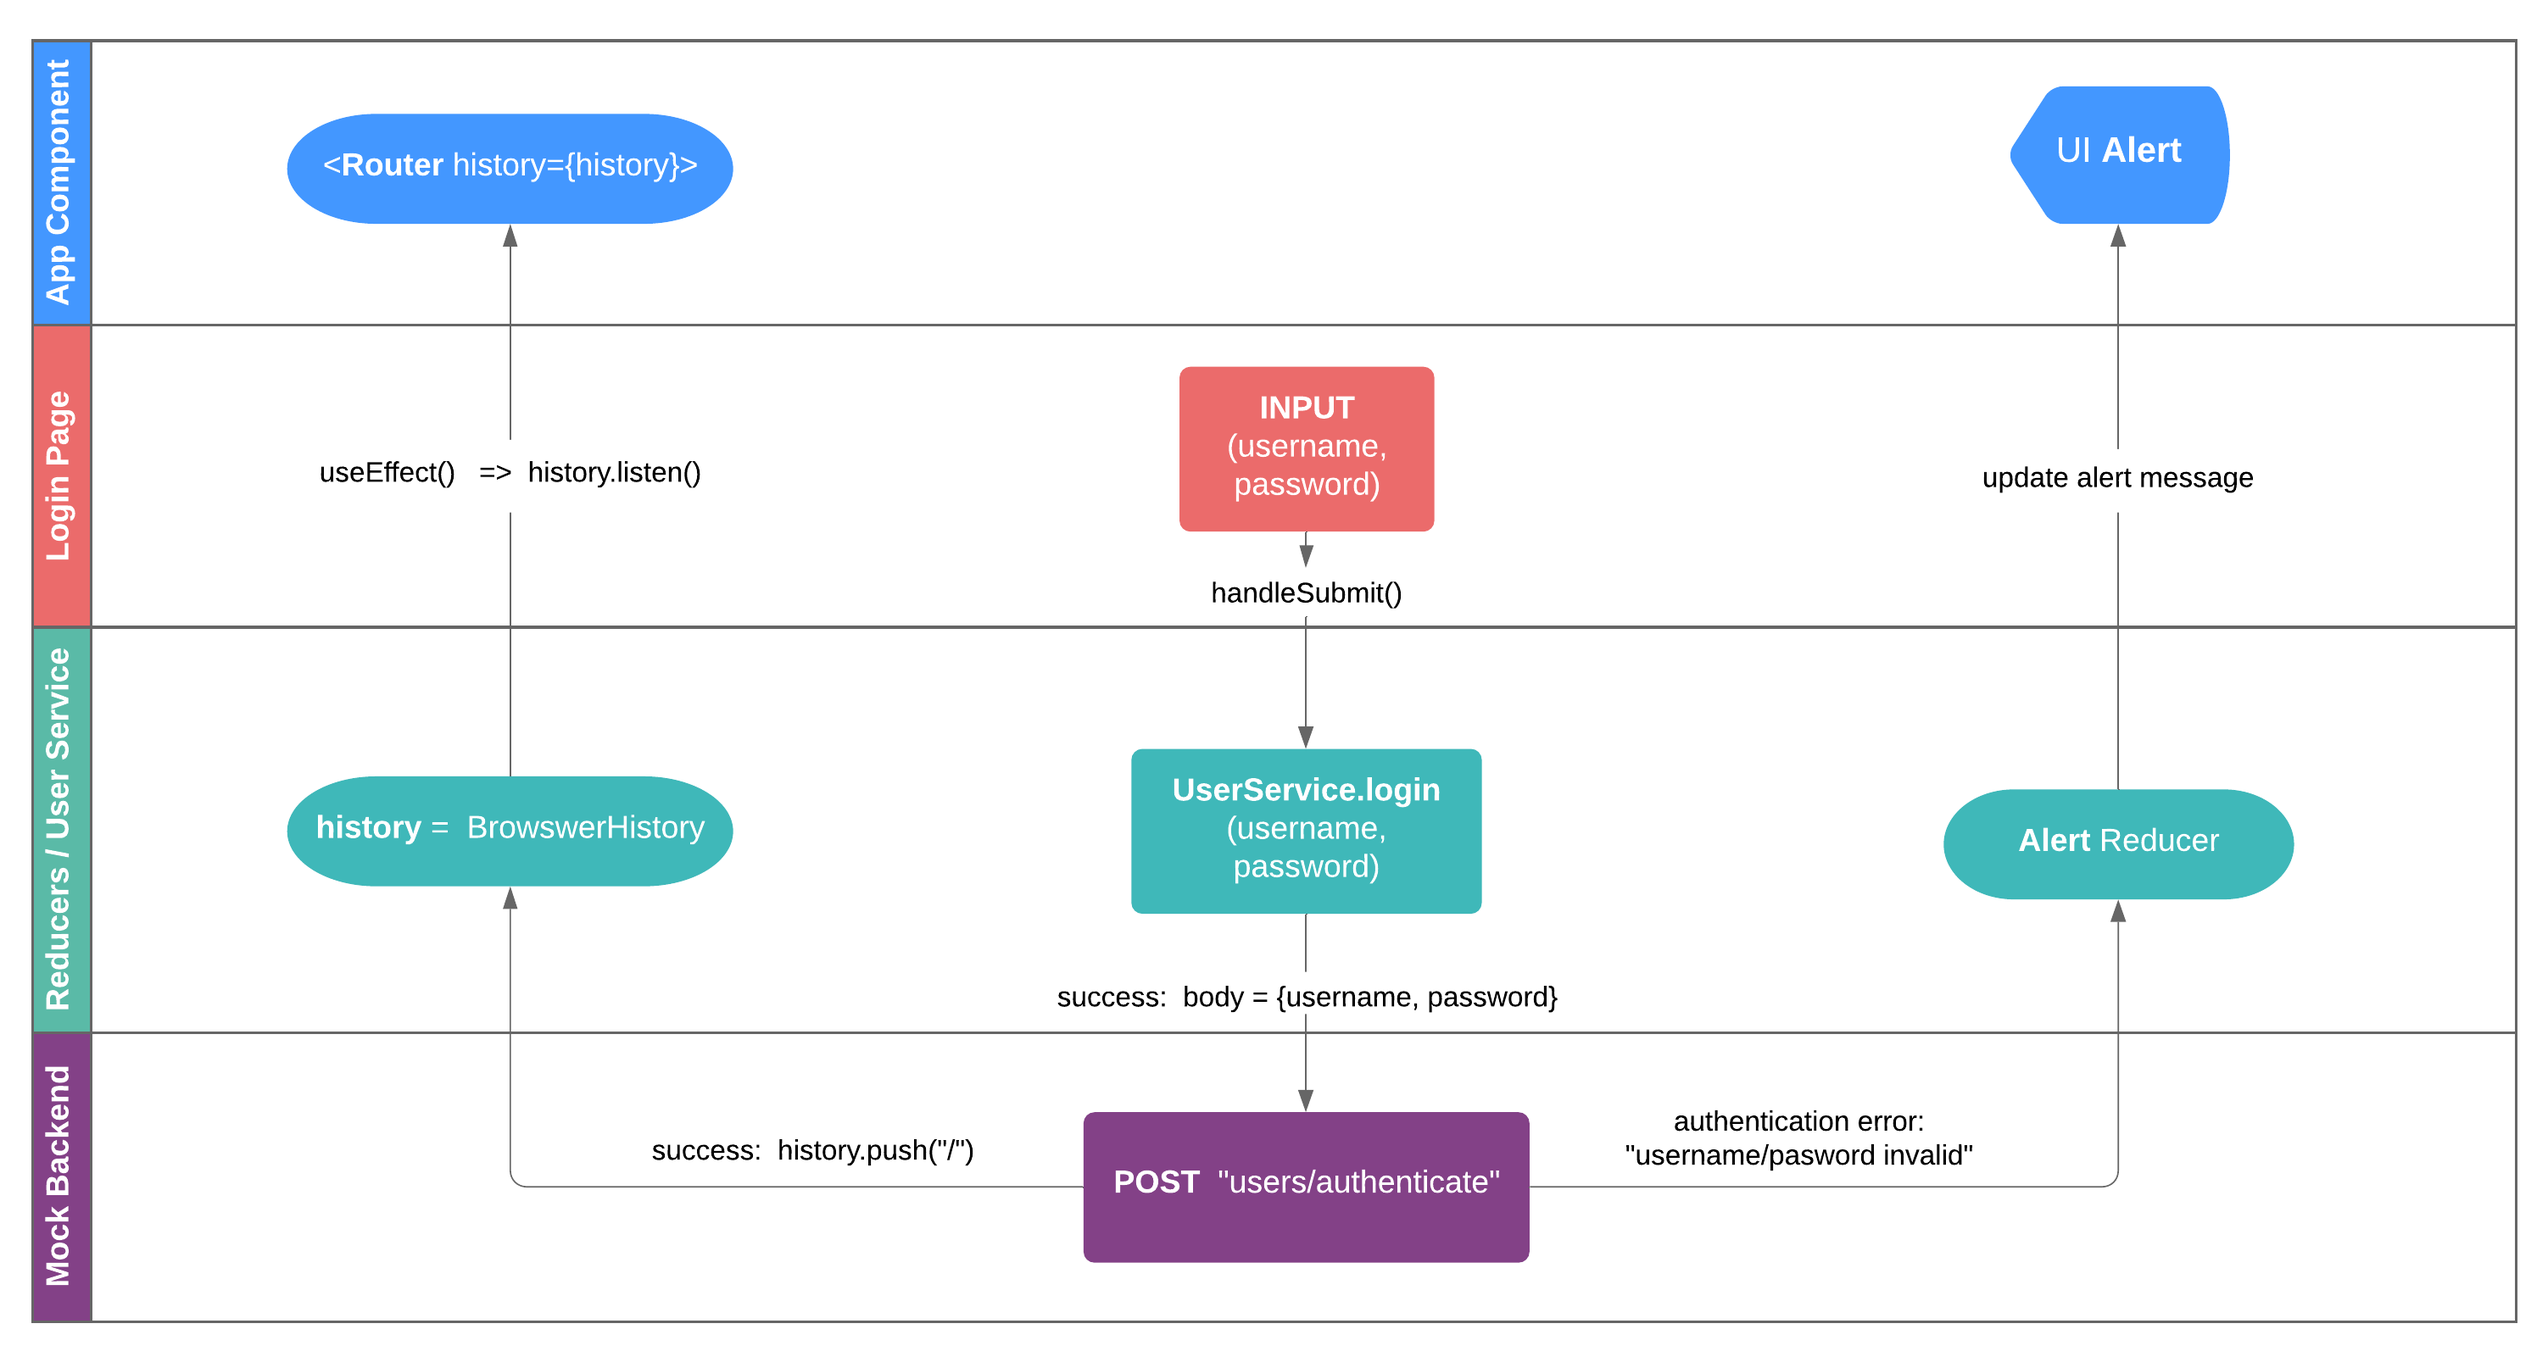
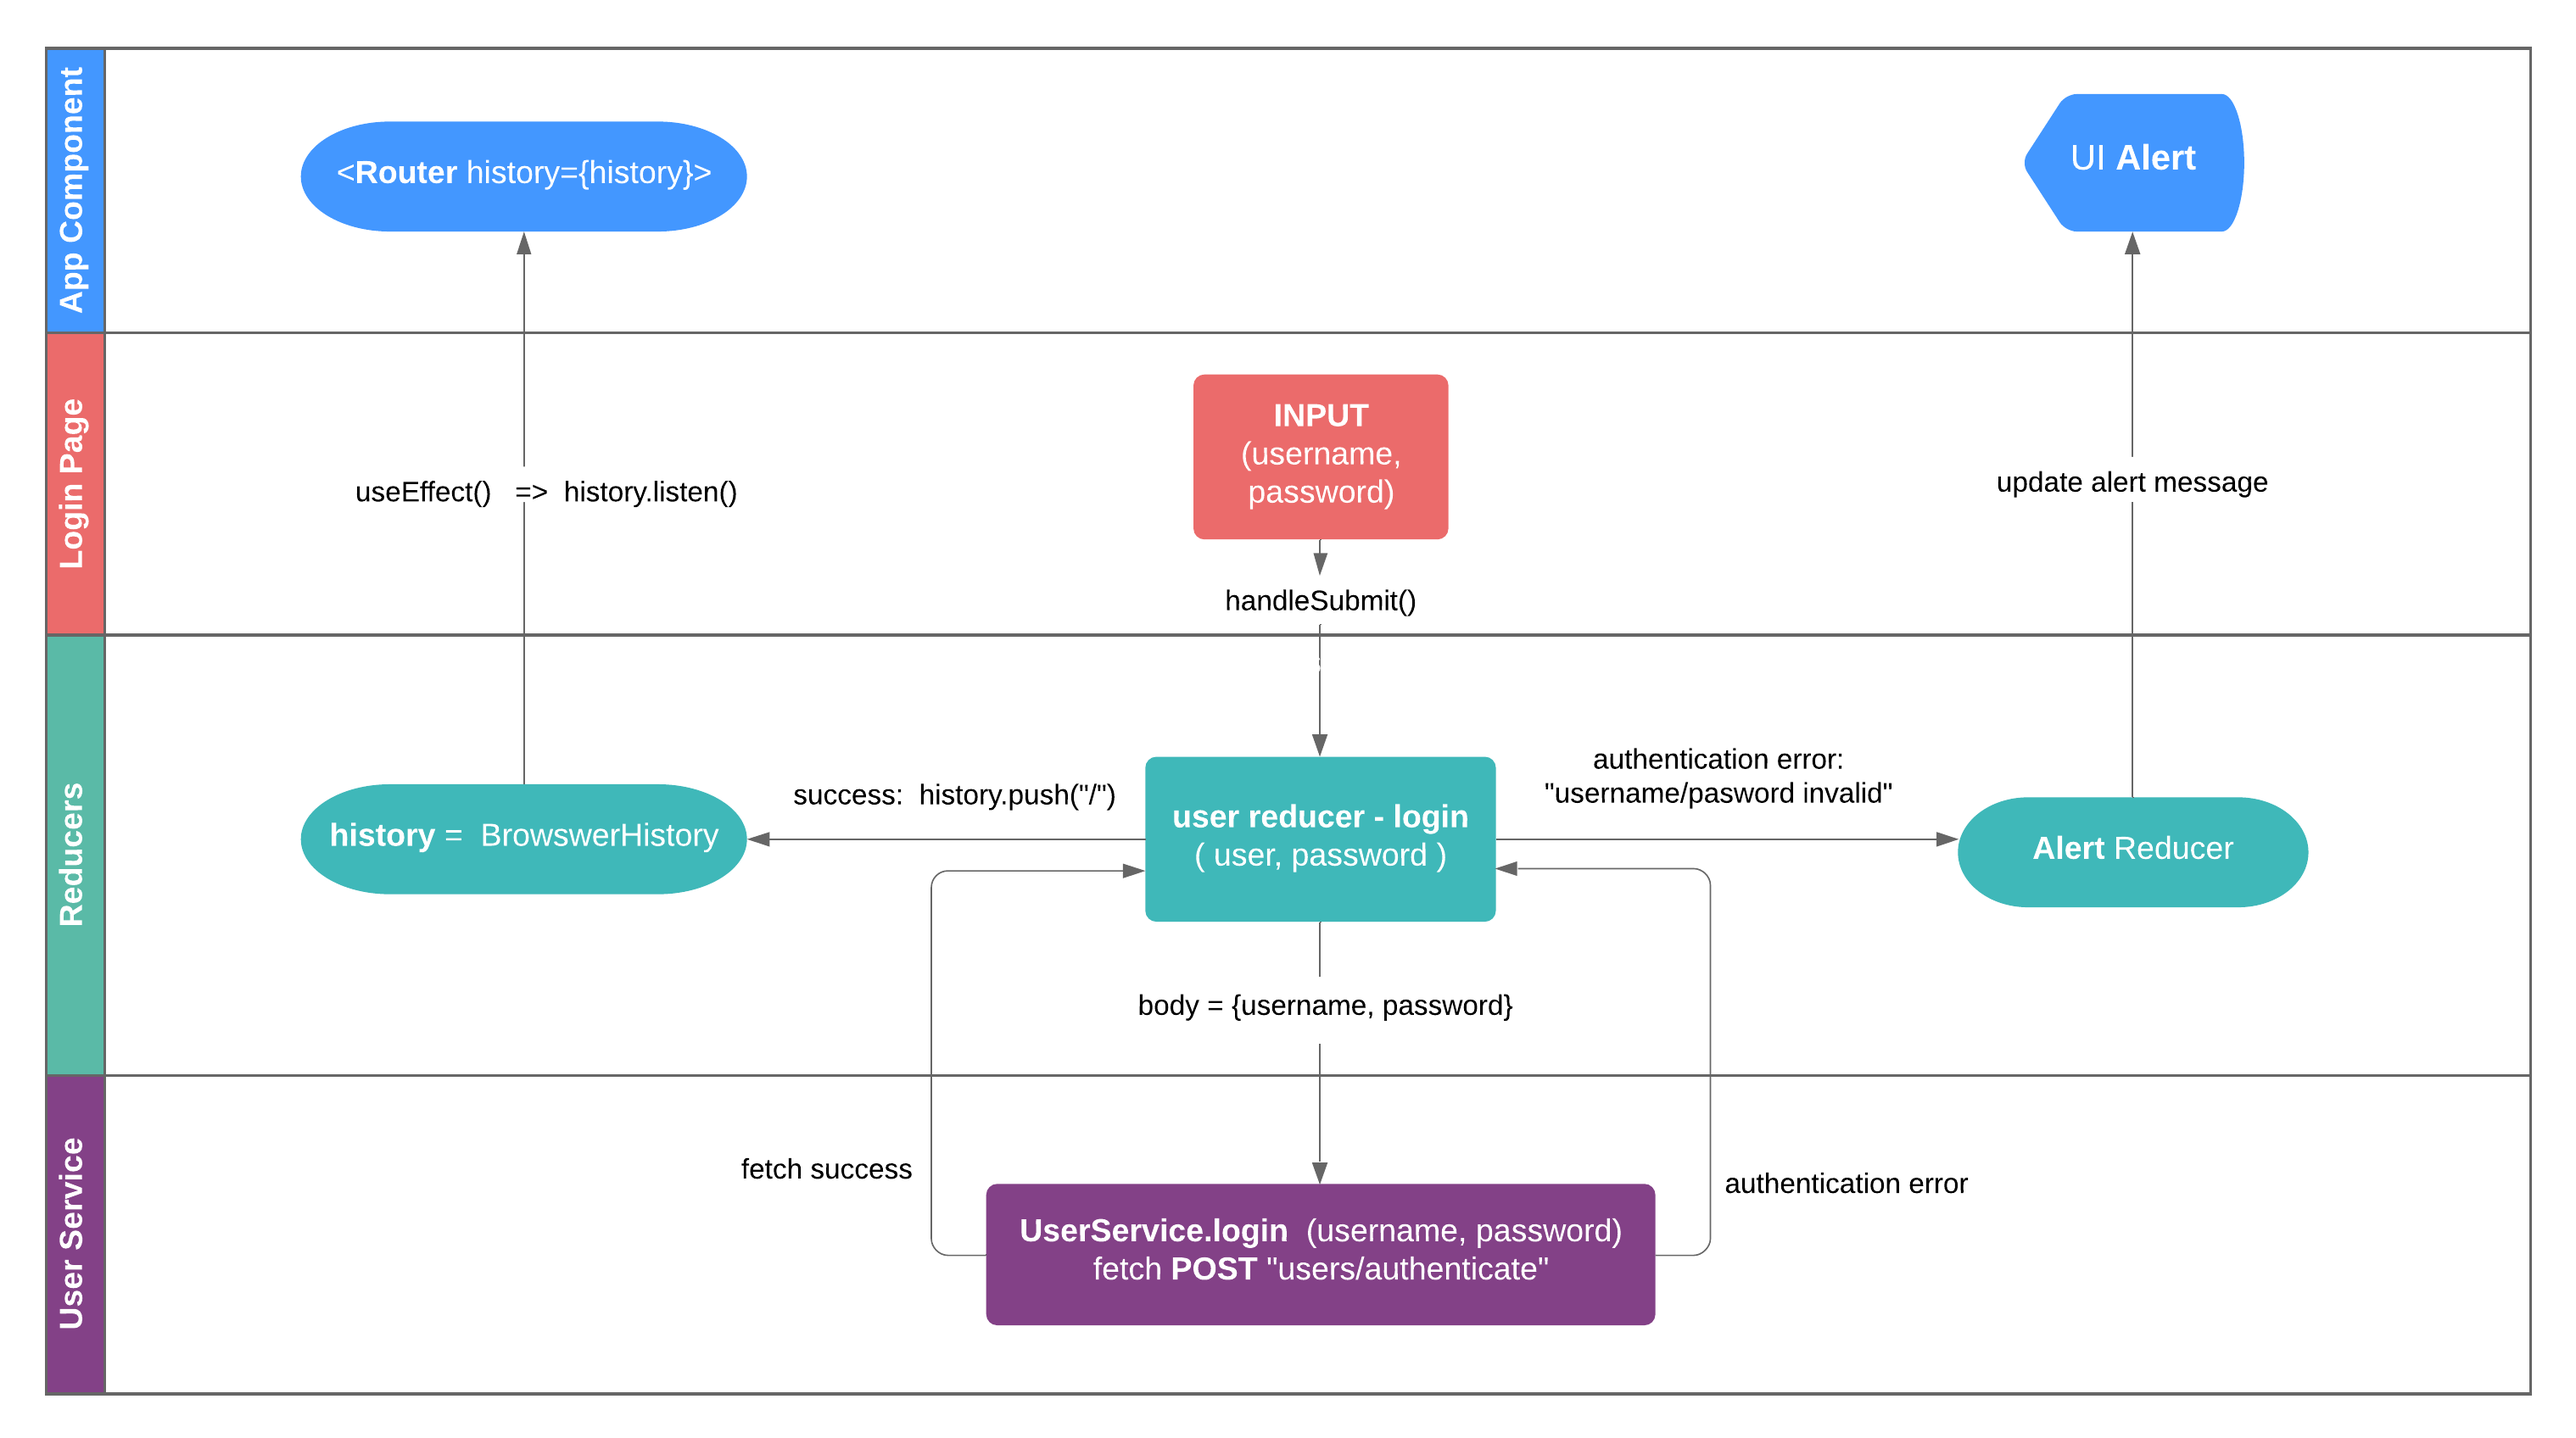
updated login flow readme

diff --git a/README.md b/README.md
@@ -2,8 +2,6 @@
 
 ## Table of Contents 
 
-> If your `README` has a lot of info, section headers might be nice.
-
 - [Installation](#installation)
 - [Usage](#usage)
 - [Testing](#installation)
@@ -19,10 +17,10 @@
 
 ### Setup
 
-> In /frontend directory, now install the necessary dependencies using npm
+> In /frontend directory, now install the necessary dependencies using yarn
 
 ```shell
-$ npm install
+$ yarn
 ```
 
 ---
@@ -32,7 +30,7 @@ $ npm install
 > After set up, now start the application
 
 ```shell
-$ npm start
+$ yarn start
 ```
 
 - Create an account and upload your yearly dividends in the "Settings" page.  After uploading, your data should populate in the "Reports" page.
@@ -54,13 +52,17 @@ $ npm start
 
 - **Login Page**
     - On the Login Page component is and input box that takes in your username, password that on submit calls the login function of the userService helper.
-- **User Service/User Reducer**
-    - The User Service login function calls 2 methods:
-        - The login reducer to check if the user exists
-        - POST call ("users/authenticate") to the Mock Backend to add the user to our stored data
-- **Mock Backend**
-    - Upon successful authentification, the Browser history path is updated to "/" ("/dashboard"), which trigers the listener in the root <App> component to switch the current page to the newly updated history path, the Dashboard page. 
-    - An unsuccessful authentification will send and alert to the Alert Reducer, which should trigger and alert message to show in the root <App> component
+- **Reducers**
+    - The User Reducer login function calls User Service login function and handles whether the call is a success or error:
+        - Upon successful authentification, the Browser history path is updated to "/" ("/dashboard"), which trigers the listener in the root <App> component to switch the current page to the newly updated history path, the Dashboard page. 
+        - An unsuccessful authentification will send and alert to the Alert Reducer, which should trigger and alert message to show in the root <App> component
+    - The Alert Reducer updates an alert in the App component upon update with an error
+- **User Service**
+    - The User Service login function fetch call to the backend.
+        - POST call ("users/authenticate") to the backend verify is the username and password is correct
+            - If a the username does not exist in the database or if the password is incorrect a corresponding error will be sent back which should trigger an update to the Alert reducer
+            - Otherwise the fetch call is a success and the user data and jwt token is returned.
+
 
 ### Register Process
 
@@ -68,12 +70,15 @@ $ npm start
 
 - **Register Page**
     - On the Register Page component is and form input that takes in your name, username and password. On supbmit it calls  that calls the register function of the userService helper.
-- **User Service/User Reducer**
-    - The User Service register function makes a POST call ("users/register") to the Mock Backend to add the user to our stored data
-        - A successful POST will trigger the user reducer register function that will update the user to the user list.
-        - An unsuccessful POST call will trigger the alert reducer to send an alert to the root <App> component. 
-- **Mock Backend**
-    - Upon successful registration, the Browser history path is updated to "/login", which trigers the listener in the root <App> component to switch the current page to the newly updated history path, the Login page so the user can login with their newly made account. 
-        - The localStorage is updated with the new user.
+- **Reducers**
+    - The User Reducer register function calls User Service register function and handles whether the call is a success or error:
+        - Upon successful registration, the Browser history path is updated to "/login", which trigers the listener in the root <App> component to switch the current page to the newly updated history path, the Login page so the user can login with their newly made account. 
+        - An unsuccessful registration will send and alert to the Alert Reducer, which should trigger and alert message to show in the root <App> component
+    - The Alert Reducer updates an alert in the App component upon update with an error
+- **User Service**
+    - The User Service register function fetch call to the backend.
+        - POST call ("users/authenticate") to the backend to add the user to our stored data
+            - If a user with the requested username already exists, then an error is returned which should updated the Alert reducer through the User reducer.
+            - Otherwise the user is added to the database and a success status is returned.
 
 ---
